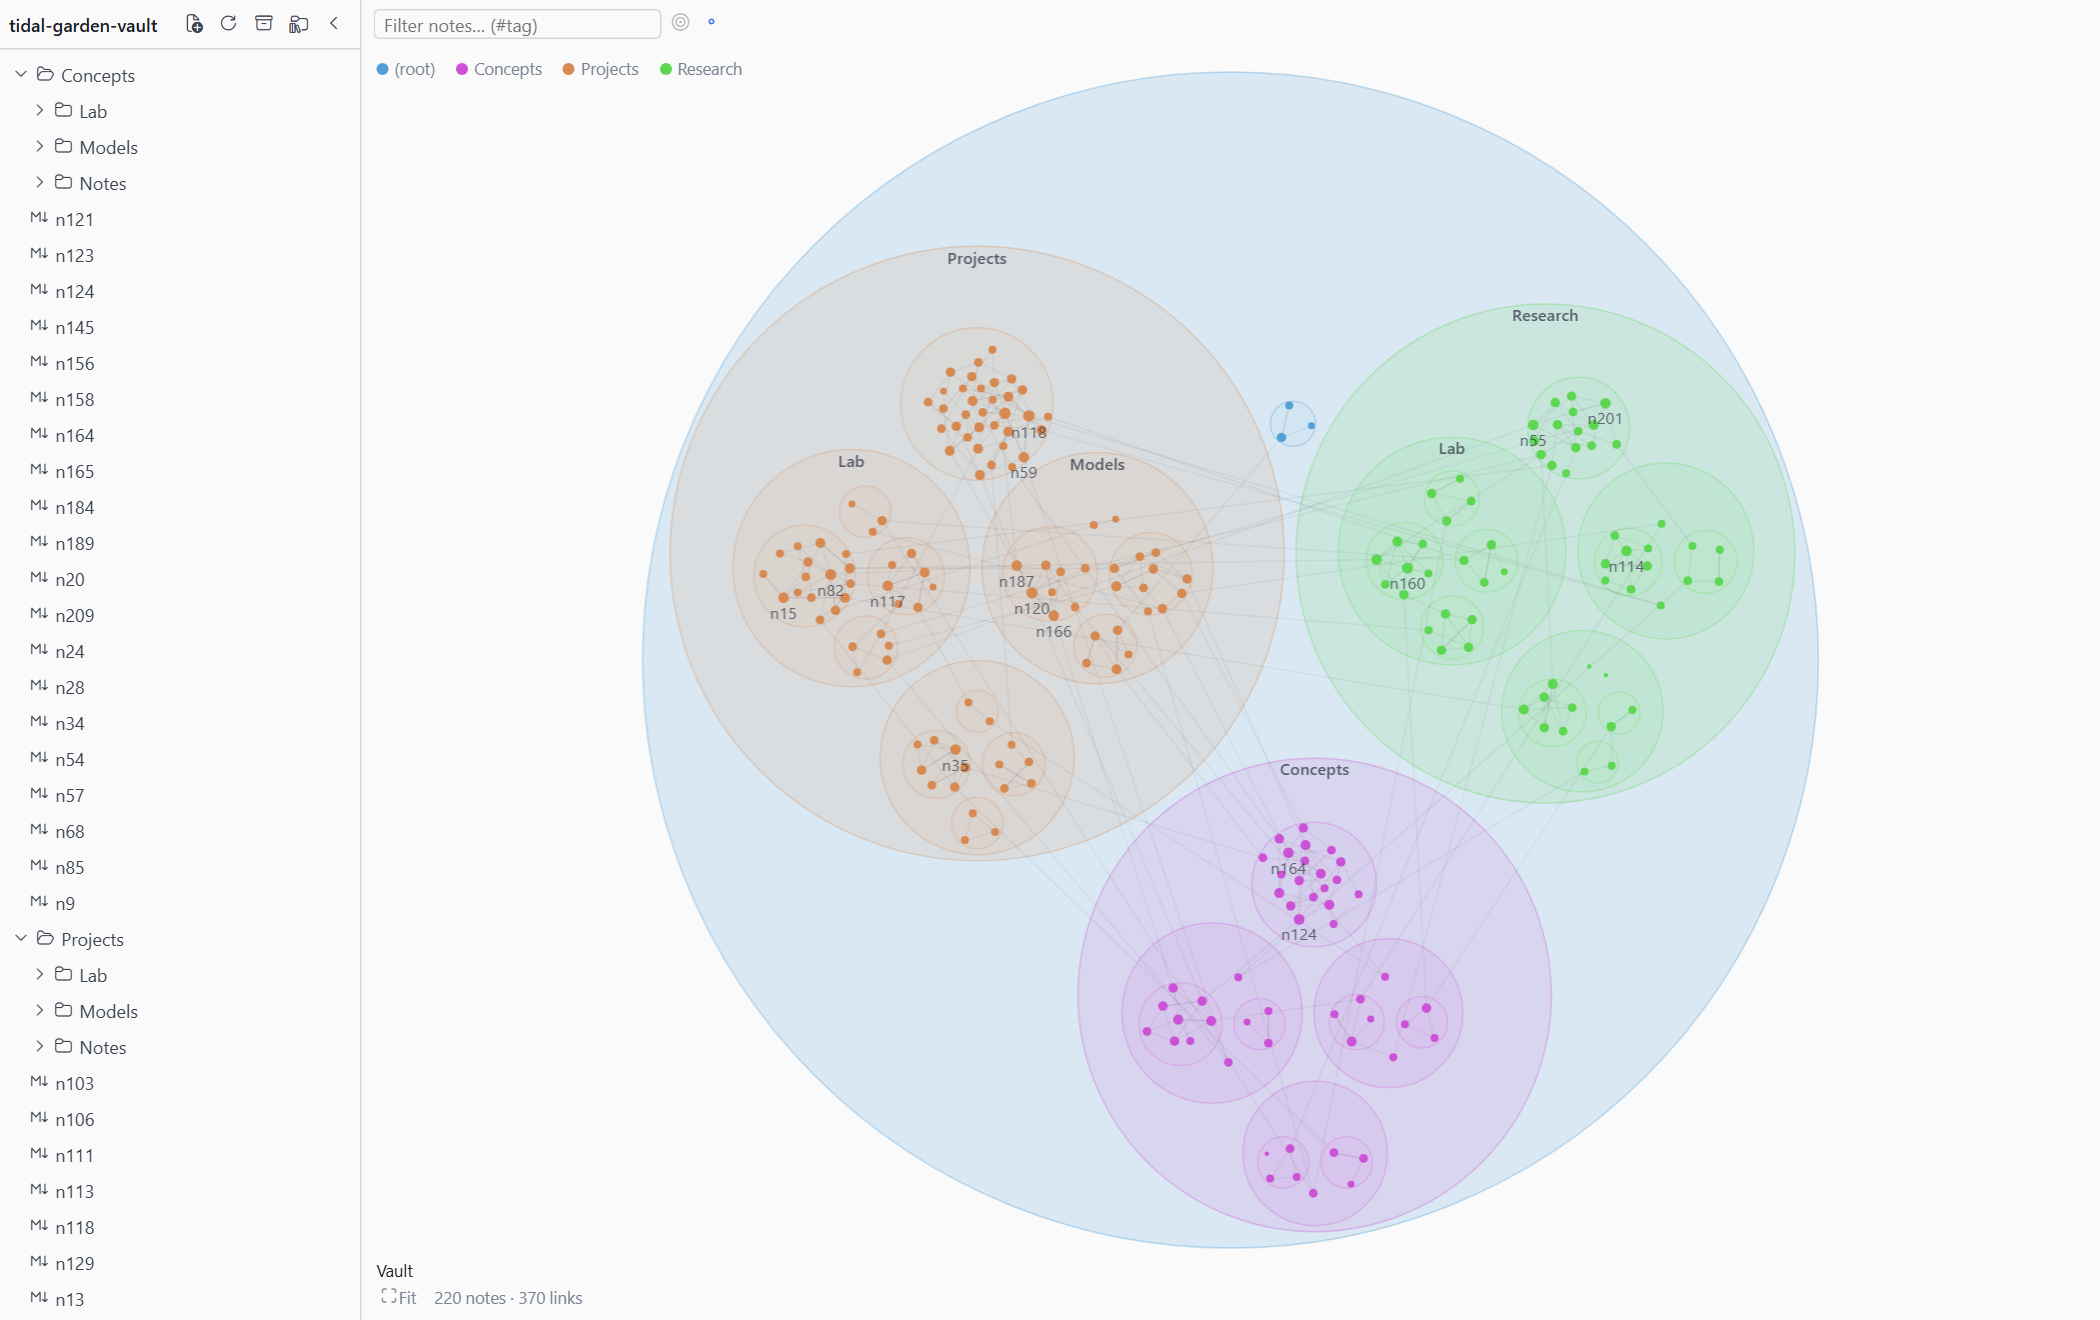
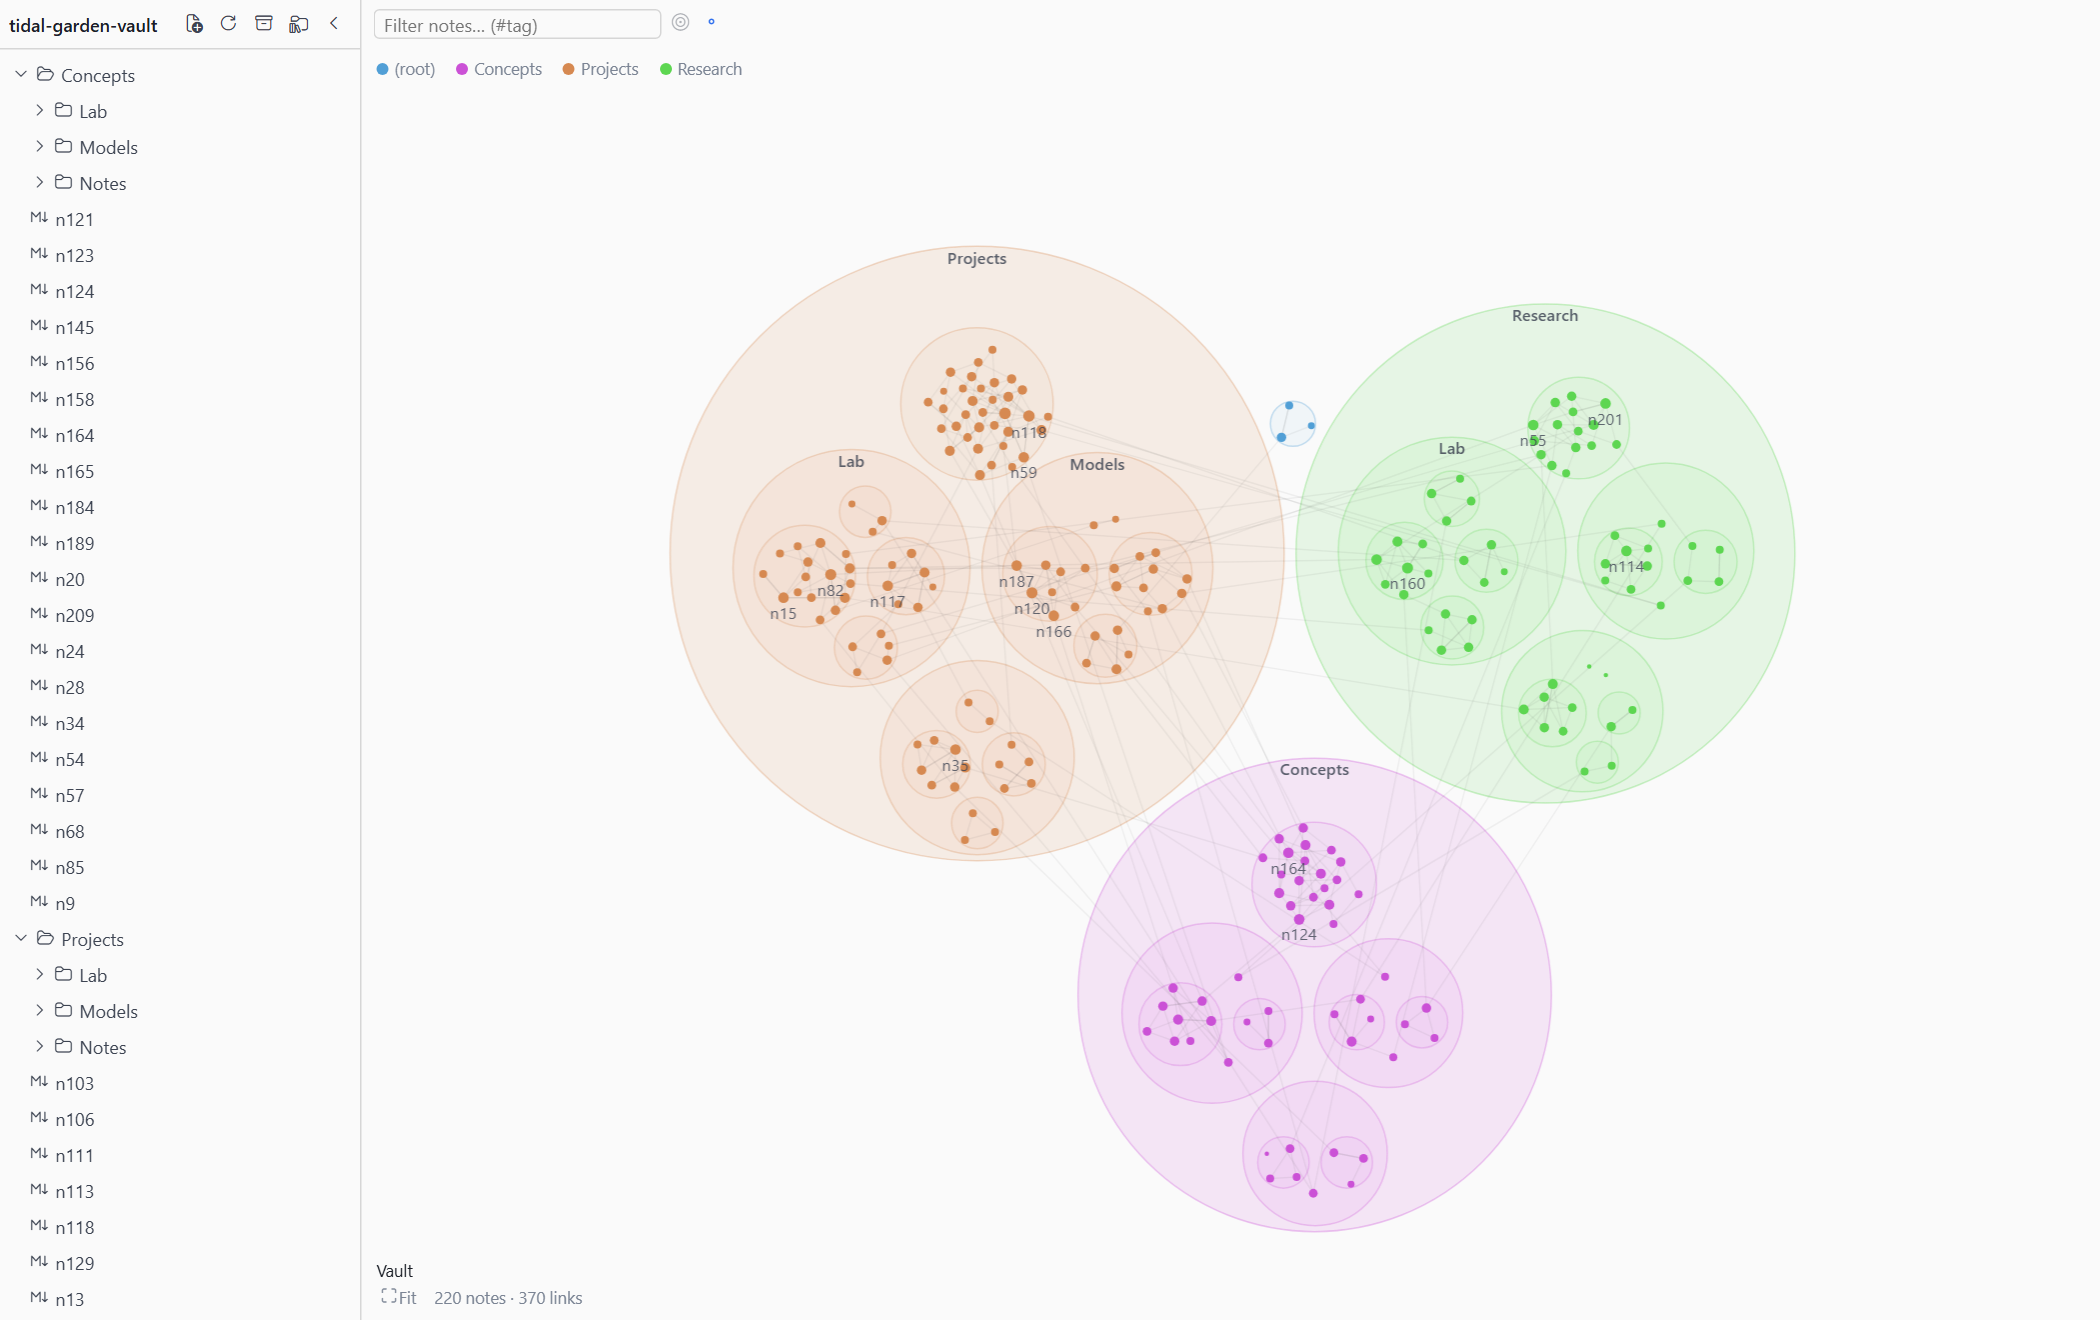
feat: do not draw the vault root disc (kept in the geometry); regenerate nested screenshots

diff --git a/src/graph-view.test.tsx b/src/graph-view.test.tsx
@@ -334,6 +334,13 @@ describe('GraphView nested folder regions', () => {
     expectContainedThroughout(0, tree, geometry)
     // Regions are drawn first, beneath the notes.
     expect(regionDiscs(lastPaint()).length).toBeGreaterThan(3)
+
+    // The vault root is geometry only: its enclosing disc is not drawn, the top-level folders' discs are.
+    const radii = regionDiscs(lastPaint()).map(([, , r]) => r)
+    const drawn = (r: number) => radii.some(item => Math.abs(item - r) < 1e-6)
+
+    expect(drawn(geometry.regions.get('')!.r)).toBe(false)
+    expect(drawn(geometry.regions.get('A')!.r)).toBe(true)
   })
 
   it('keeps containment through a layout-mode switch both ways, and never carries positions across it', async () => {

diff --git a/src/graph-view.tsx b/src/graph-view.tsx
@@ -231,7 +231,9 @@ export function GraphView(props: GraphViewProps) {
       ].every(([px, py]) => Math.hypot(px! - region.x, py! - region.y) < region.r)
 
       // Above the band (the region has outgrown the viewport) only the outline — which is off screen — remains.
-      if (!covers) {
+      // The vault root stays in the geometry (it holds the packing together and anchors the camera fits and
+      // the breadcrumb) but is not drawn: its disc is only the enclosure of the top-level folders.
+      if (!covers && region.id !== '') {
         disc(region.x, region.y, region.r, hue, region.depth, lit, !occupiedRef.current.has(region.id), false)
       }
 

diff --git a/desktop/plugin.js b/desktop/plugin.js
@@ -3474,7 +3474,7 @@ function GraphView(props) {
         [left, bottom],
         [right, bottom]
       ].every(([px, py]) => Math.hypot(px - region.x, py - region.y) < region.r);
-      if (!covers) {
+      if (!covers && region.id !== "") {
         disc(region.x, region.y, region.r, hue, region.depth, lit, !occupiedRef.current.has(region.id), false);
       }
       const comp = region.compartment;

diff --git a/docs/nested-folder-regions.md b/docs/nested-folder-regions.md
@@ -202,6 +202,7 @@ A region that is effectively hidden is drawn with a dashed outline and its label
 Resolved by the implementation (the design above stands unless noted):
 
 - **Packing.** `d3-hierarchy` (`packSiblings` front-chain, `packEnclose`; ISC, 3.1.2) is the one added dependency: it is the established deterministic implementation of the algorithm named in the design. Children are sorted by radius then path before packing; each child is inflated by a fixed padding (8) for the packing, so siblings keep a gap of at least twice that and children keep that margin from the parent edge. A folder whose only child is its own compartment is that compartment; a folder with no notes and one child is that child (a chain), without extra padding.
+- **Root region.** The vault root stays in the geometry (it holds the top-level packing together and anchors the whole-map camera fit and the breadcrumb) but its disc is not drawn: it only encloses the top-level folders and added clutter. The root's own notes still draw their compartment disc like any folder's.
 - **Label band.** A region disc is its content disc (the packing's enclosure, or the compartment for a leaf) grown by 14% of the content radius, with the content pushed down to touch the bottom edge. The crescent above it is reserved for the region's own label, so no note or child region can lie under a label. An unforced label is drawn only while its box (at screen-constant size) lies wholly outside the content disc at the current zoom, so a label that does not fit at a given zoom is hidden, not overdrawn; the hovered or framed region always labels. The root region has no band. The geometry tests assert that content lies inside the region, touches its bottom edge, and holds all children and the compartment.
 - **Geometry identity.** A compartment's radius is its direct notes' summed collision footprint (π(r+4)²) rounded up into geometric buckets (area ratio 1.5), over a packing density of 0.4, and at least the largest note's collision radius. `graph-view` rebuilds geometry only when the sorted (folder, radius) list changes; it is computed from the `fullGraph` prop, not the displayed graph.
 - **Camera.** Zoom limits (`zoomLimits`) are the legacy 0.1–6 widened by the whole-map fit (floor) and the smallest-compartment fit (ceiling), recomputed on every use so they follow the viewport; the 1.8 cap applies only to the global Fit and the whole-map crumb. Framing animates along the van Wijk–Nuij smooth zoom path (d3-zoom's `interpolateZoom`), which zooms out and back in over long jumps. The "current folder" is the framed region, and after a manual pan or zoom the deepest region containing the viewport centre whose on-screen radius is at least a quarter of the viewport's short side; Escape frames its parent. A viewport resize while still framed re-frames the same region. In nested mode the camera is kept through filters, the local graph and repacks, and refit only on first display or a mode switch.
